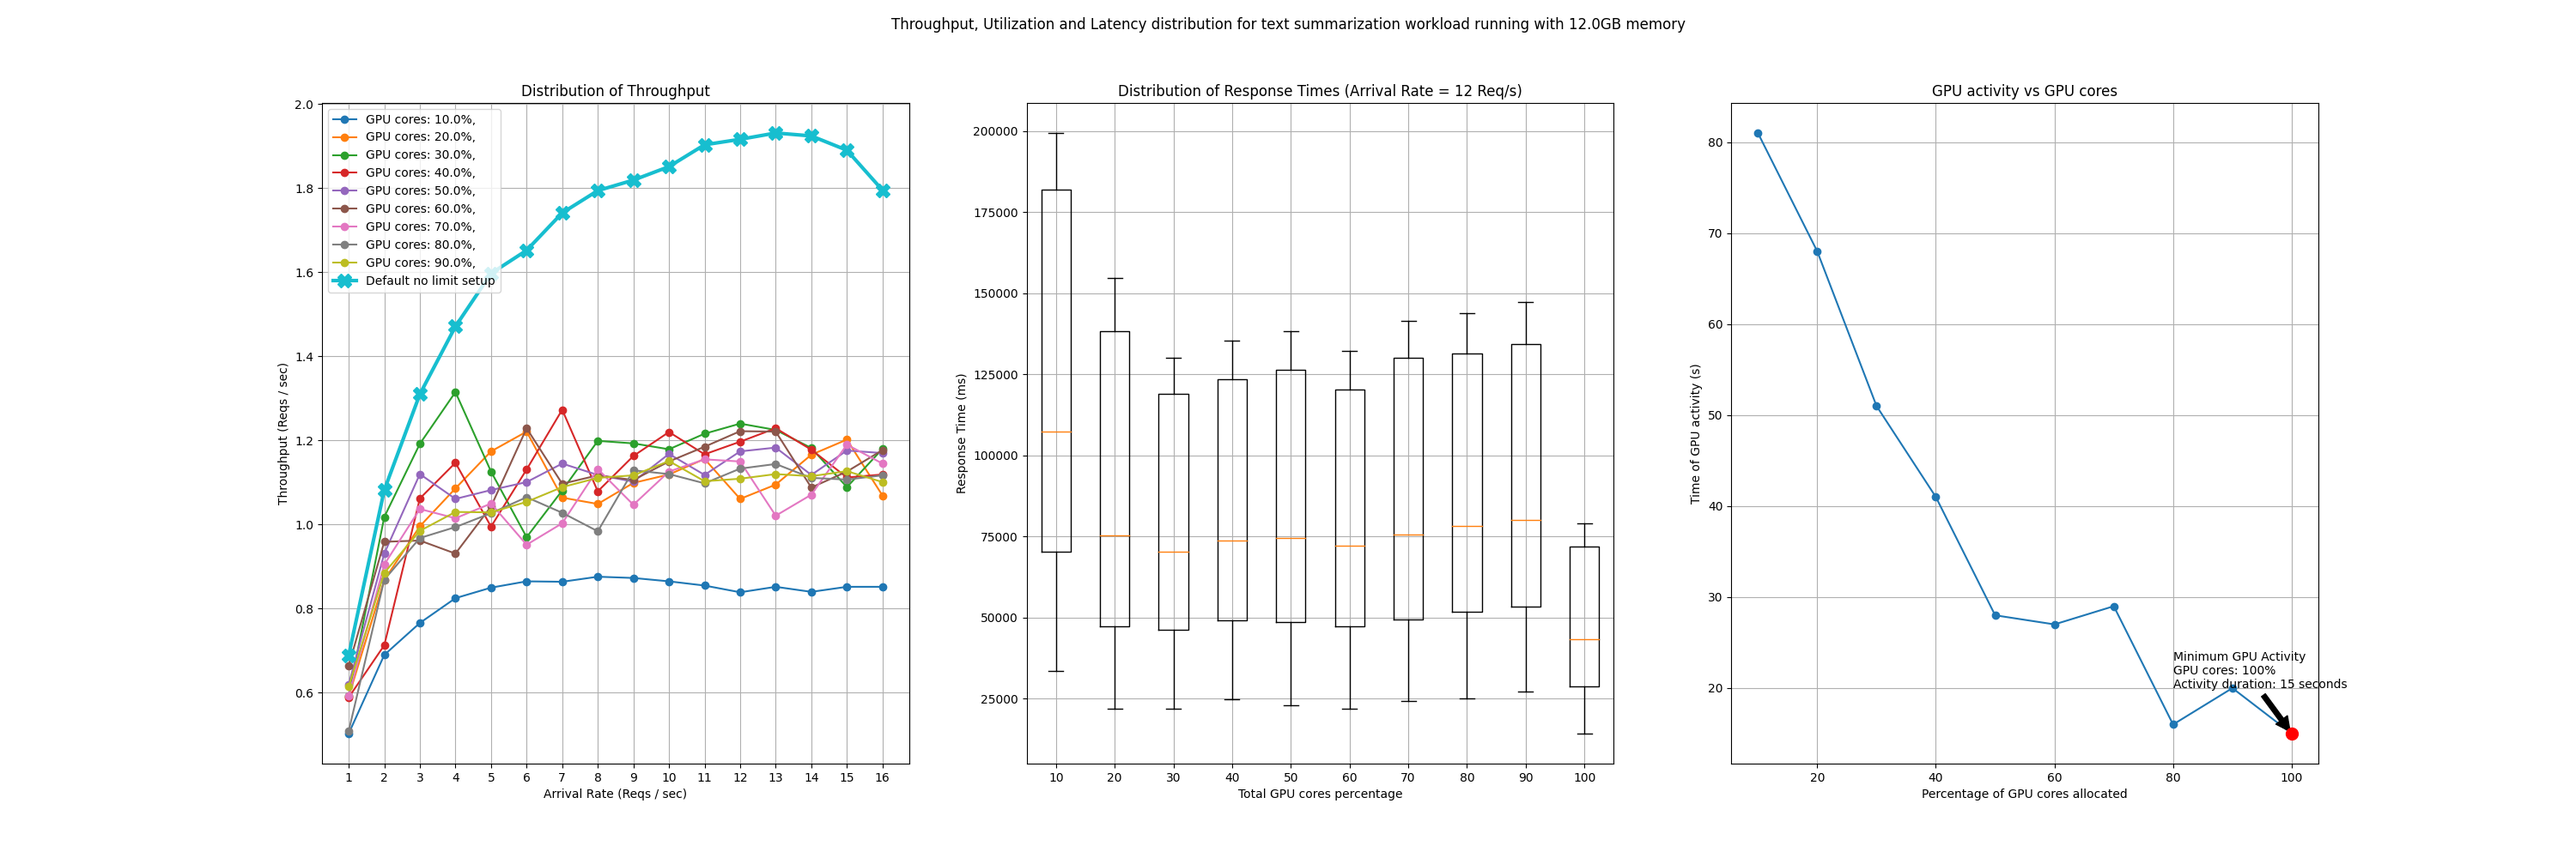
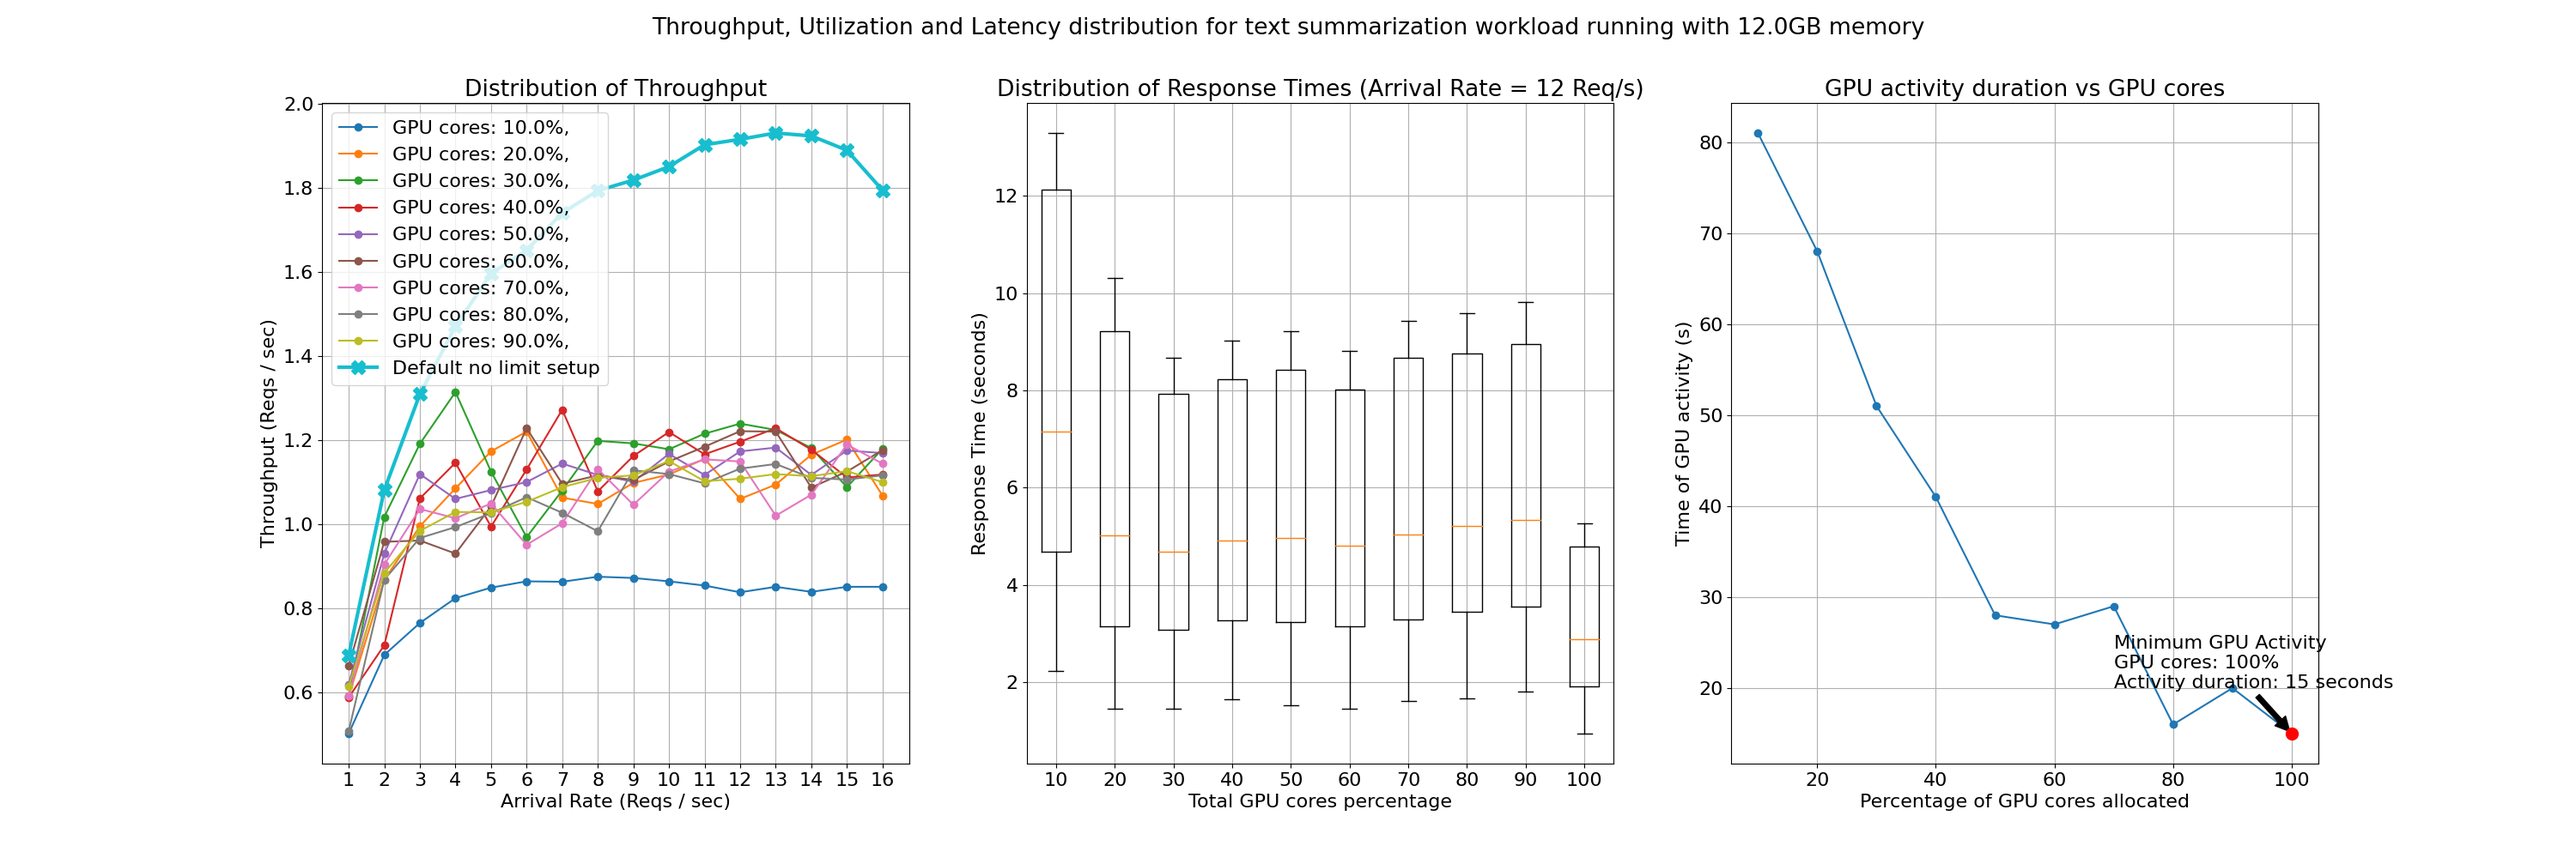
enlarged results

diff --git a/profiler/colocation/results/plot-single-workload-fixed-memory.py b/profiler/colocation/results/plot-single-workload-fixed-memory.py
@@ -1,6 +1,7 @@
 import pandas as pd
 import matplotlib.pyplot as plt
 import ast
+plt.rcParams.update({'font.size': 16})  # You can change 14 to any desired font size
 
 filename = "samsum-1-fixed-memory.csv"
 num_colocation = 1
@@ -50,12 +51,14 @@ dataset = []
 for com in compute_values:
     latencies = data[(data['compute'] == com) & (data['memory'] == memory) & (data['arrival_rate'] == 12)]["latencies"].iloc[0]
     latencies = ast.literal_eval(latencies)  
+    for i in range(len(latencies)):
+        latencies[i] = latencies[i]/15000
     dataset.append(latencies)
 
 plt.boxplot(dataset)
 plt.xticks(range(1, 11), compute_values)  
 plt.xlabel(f'Total GPU cores percentage')
-plt.ylabel('Response Time (ms)')
+plt.ylabel('Response Time (seconds)')
 plt.title(f'Distribution of Response Times (Arrival Rate = 12 Req/s)')
 plt.grid(True)
 
@@ -86,12 +89,12 @@ plt.scatter([mini], [minv], color='r', s=100, zorder=5)
 # Add a label to the highlighted point
 plt.annotate(f'Minimum GPU Activity\nGPU cores: {mini}%\nActivity duration: {minv} seconds', 
              xy=(mini, minv), 
-             xytext=(mini - 20, minv + 5),
+             xytext=(mini - 30, minv + 5),
              arrowprops=dict(facecolor='black', shrink=0.05))
 
 plt.xlabel('Percentage of GPU cores allocated')
 plt.ylabel('Time of GPU activity (s)')
-plt.title(f'GPU activity vs GPU cores')
+plt.title(f'GPU activity duration vs GPU cores')
 plt.grid(True)
 
 plt.suptitle(f"Throughput, Utilization and Latency distribution for text summarization workload running with {memory/num_colocation}GB memory")

diff --git a/profiler/bart-large-cnn-samsum-text-summarization/single-threaded/plot.py b/profiler/bart-large-cnn-samsum-text-summarization/single-threaded/plot.py
@@ -1,0 +1,16 @@
+import matplotlib.pyplot as plt
+
+cpu = [0.55, 0.55, 0.55, 0.55, 0.55]
+gpu = [0.78, 0.84, 0.97, 1.2, 1.35]
+cores = [20, 40, 60, 80, 100]
+
+plt.figure(figsize=(6, 6))
+plt.plot(cores, cpu, marker='o', label="cpu")
+plt.plot(cores, gpu, marker='o', label="gpu")
+plt.xticks(cores)
+plt.yticks([0, 0.2, 0.4, 0.6, 0.8, 1, 1.2, 1.4])
+plt.legend()
+plt.xlabel("GPU cores (in percentage)")
+plt.ylabel("Throughput (reqs/sec)")
+plt.title("Text summarization function running on CPU vs GPU")
+plt.savefig("cpu_vs_gpu.png")

diff --git a/profiler/colocation/results/plot-single-all.py b/profiler/colocation/results/plot-single-all.py
@@ -1,5 +1,6 @@
 import pandas as pd
 import matplotlib.pyplot as plt
+plt.rcParams.update({'font.size': 16})  # You can change 14 to any desired font size
 
 single = pd.read_csv("cnn-1-fixed-memory-all.csv")
 single['memory'] = single['memory1']
